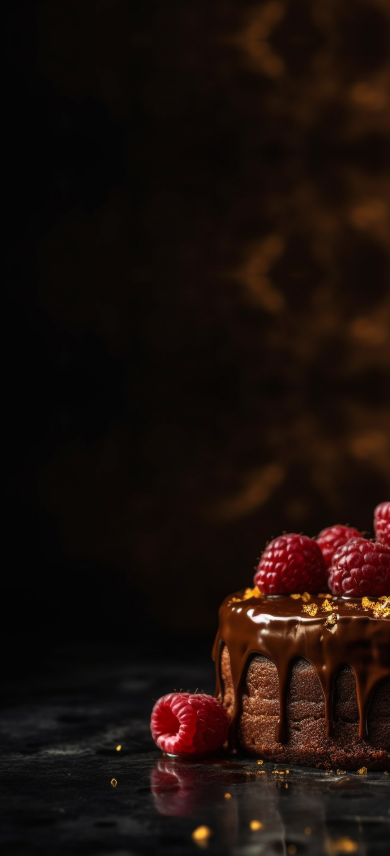
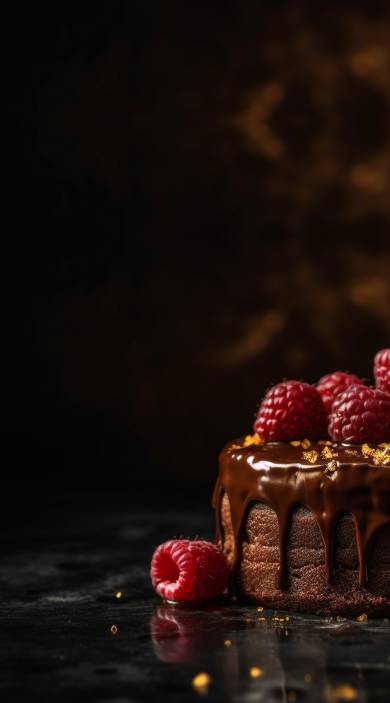
39

diff --git a/css/style_general.css b/css/style_general.css
@@ -2013,6 +2013,10 @@ footer {
     .input {
         width: 333px;
     }
+    .header_block {
+        background-image: url(../img/main_390.png);
+        height: 856px;
+    }
 }
 @media(max-width:374px) {
     .header_block {
